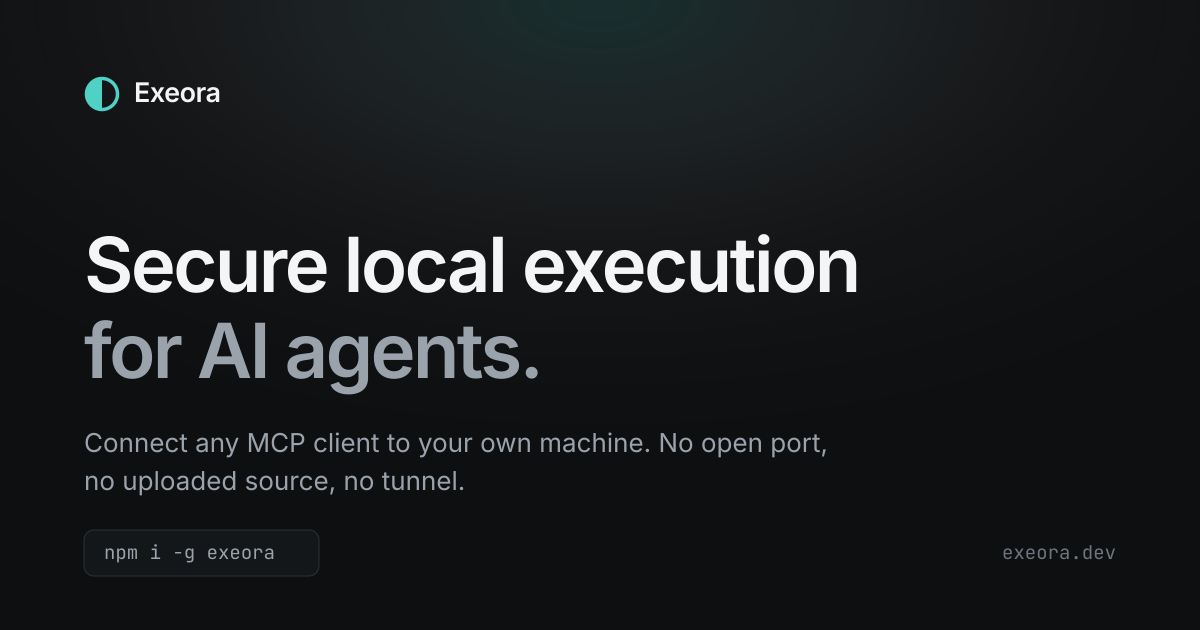
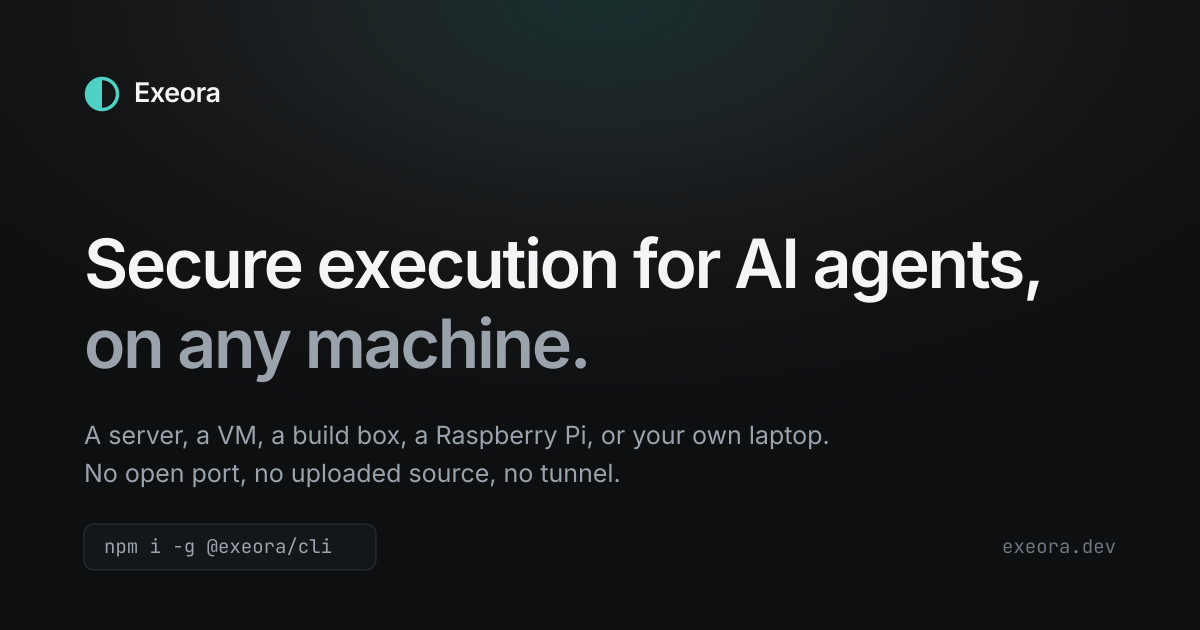
docs: stop implying the source is public, and widen the framing past one laptop
Two claims on the landing were wrong.

The GitHub links said the repository is open. It is not, and every one of them
answered 404: the nav button, the hero's "View source", the closing CTA's
"Read the source", the footer link and the `codeRepository` in the JSON-LD.
The CLI is the only public part, published as @exeora/cli and MIT, so the two
places that still want a secondary link point there instead.

The copy also narrowed the product to the visitor's own laptop, which the CLI
readme never does. It works on any machine you can run a command on, and
saying "your machine" everywhere sells the smallest version of that. The
headline goes back to "Secure execution for AI agents, on any machine", and
the surrounding sentences follow: the machine rather than your machine,
whichever machine is serving it rather than your own, a sleeping laptop or a
paused VM rather than only a laptop.

The Open Graph banner is regenerated, since the old headline was baked into
the image, and the hero's container widens so the longer headline still breaks
in two lines rather than three at desktop widths.

The consent screen carried the same narrow claim and is reworded with it. Its
test now compares against whitespace-collapsed HTML: reflowing the sentence in
the source split it across lines and failed a test that nothing had broken.

Claude-Session: https://claude.ai/code/session_016FrxrUfK8QvxW5CNHuywaB

diff --git a/apps/gateway/src/oauth/pages.workers.test.ts b/apps/gateway/src/oauth/pages.workers.test.ts
@@ -17,6 +17,13 @@ import { github } from "./providers/github.js";
 
 const render = (page: ReturnType<typeof errorPage>) => page.toString();
 
+/**
+ * The same HTML with runs of whitespace collapsed, for asserting on a sentence
+ * the browser will render as one line. Without it, rewrapping the source
+ * splits a phrase across lines and fails a test that nothing has broken.
+ */
+const text = (page: ReturnType<typeof errorPage>) => render(page).replace(/\s+/g, " ");
+
 function styleBlock(html: string): string {
   const match = html.match(/<style>([\s\S]*?)<\/style>/)?.[1];
   if (match === undefined) throw new Error("the page rendered no <style> block");
@@ -82,7 +89,7 @@ describe("consent", () => {
   it("says plainly that commands are not filtered", async () => {
     // The one sentence on this screen that must not quietly disappear in a
     // redesign: it is the only warning a user gets before granting execution.
-    expect(render(consentPage(base))).toContain("Commands are not filtered");
+    expect(text(consentPage(base))).toContain("Commands are not filtered");
   });
 
   it("posts both decisions to the approval endpoint", async () => {

diff --git a/apps/gateway/src/oauth/pages.ts b/apps/gateway/src/oauth/pages.ts
@@ -240,7 +240,7 @@ export function signInPage(providers: UpstreamProvider[], state: string) {
       <div class="card">
         <h1>Sign in to continue</h1>
         <p class="lede">
-          An application is asking to connect to the development environment on your machine.
+          An application is asking to connect to the development environment on one of your machines.
         </p>
 
         ${providers.map(
@@ -277,8 +277,8 @@ export function consentPage(options: {
 
         <div class="warn">
           This grants <strong>${name}</strong> the ability to read, edit and run commands in the
-          project you connect it to, on your own machine. Commands are not filtered. Only approve
-          applications you trust.
+          project you connect it to, on whichever machine is serving it. Commands are not
+          filtered. Only approve applications you trust.
         </div>
 
         ${

diff --git a/apps/web/dashboard/src/pages/Projects.tsx b/apps/web/dashboard/src/pages/Projects.tsx
@@ -98,7 +98,7 @@ export function Projects() {
       <ConfirmDialog
         open={pendingRemove !== null}
         title={`Remove ${pendingRemove?.name ?? ""}?`}
-        body="Its MCP URL stops resolving, so any client still pointed at it will start failing. The files on your machine are untouched."
+        body="Its MCP URL stops resolving, so any client still pointed at it will start failing. The files on the machine are untouched."
         confirmLabel="Remove"
         pending={remove.isPending}
         onCancel={() => setPendingRemove(null)}

diff --git a/apps/web/landing/src/lib/site.ts b/apps/web/landing/src/lib/site.ts
@@ -1,6 +1,10 @@
 /** Values that appear in more than one component, so they cannot drift. */
 
-export const GITHUB_URL = "https://github.com/leynier/exeora";
+/**
+ * The CLI is published and MIT licensed; the repository behind it is not
+ * public. Nothing here should link to a source tree or imply one exists.
+ */
+export const NPM_URL = "https://www.npmjs.com/package/@exeora/cli";
 
 /**
  * What a first-time visitor pastes into a terminal, in order.
